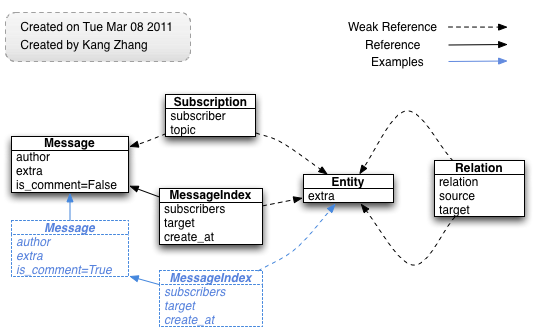
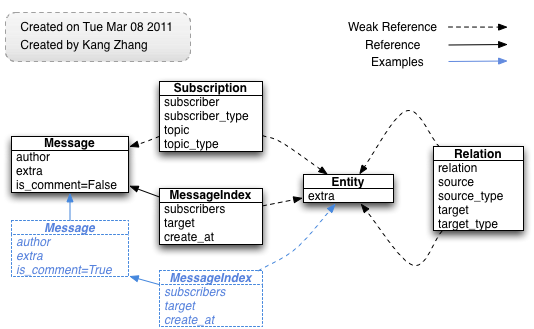
Refine storage

diff --git a/common/models.py b/common/models.py
@@ -11,7 +11,7 @@ from chrisw import db
 
 class Entity(db.FlyModel):
   """docstring for Entity"""
-  create_at = db.DateTimeProperty(required=True)
+  create_at = db.DateTimeProperty(auto_now_add=True)
   
   def create_relation(self, relation, target):
     """docstring for create_relation_with"""
@@ -31,7 +31,6 @@ class Entity(db.FlyModel):
     relations = self._get_relations(relation, target).fetch()
     for rel in relations:
       rel.delete()
-  
   
   def get_target(self, relation, limit=24):
     """docstring for get_by_relation"""
@@ -129,17 +128,25 @@ class Message(db.FlyModel):
     keys = _init_user_keys(users)
     
     index = MessageIndex(subscribers=keys, target=self,\
-                         type_name=self.type_name)
+                         type_name=self.get_type_name())
     index.put()
+  
+  def get_type_name(self):
+    """docstring for get_type_name"""
+    return self.__class__.get_cls_type_name()
+  
+  @classmethod
+  def get_cls_type_name(cls):
+    """docstring for get_message_type_name"""
+    return cls.__name__
     
   @classmethod
-  def latest_by_user(self, user, limit=24):
+  def latest_by_user(cls, user, limit=24):
     """docstring for all_by_user"""
-    keys = MessageIndex.all(subscribers=user, target=self).order('-create_at')\
-                       .fetch(limit)
-    return db.get(keys)
-  
-  type_name = 'basic_message'
+    indexes = MessageIndex.all(subscribers=user, \
+                               type_name=cls.get_cls_type_name())\
+                                 .order('-create_at').fetch(limit)
+    return db.get([index.target for index in indexes])
 
 class MessageIndex(db.Model):
   """docstring for MessageIndex"""
